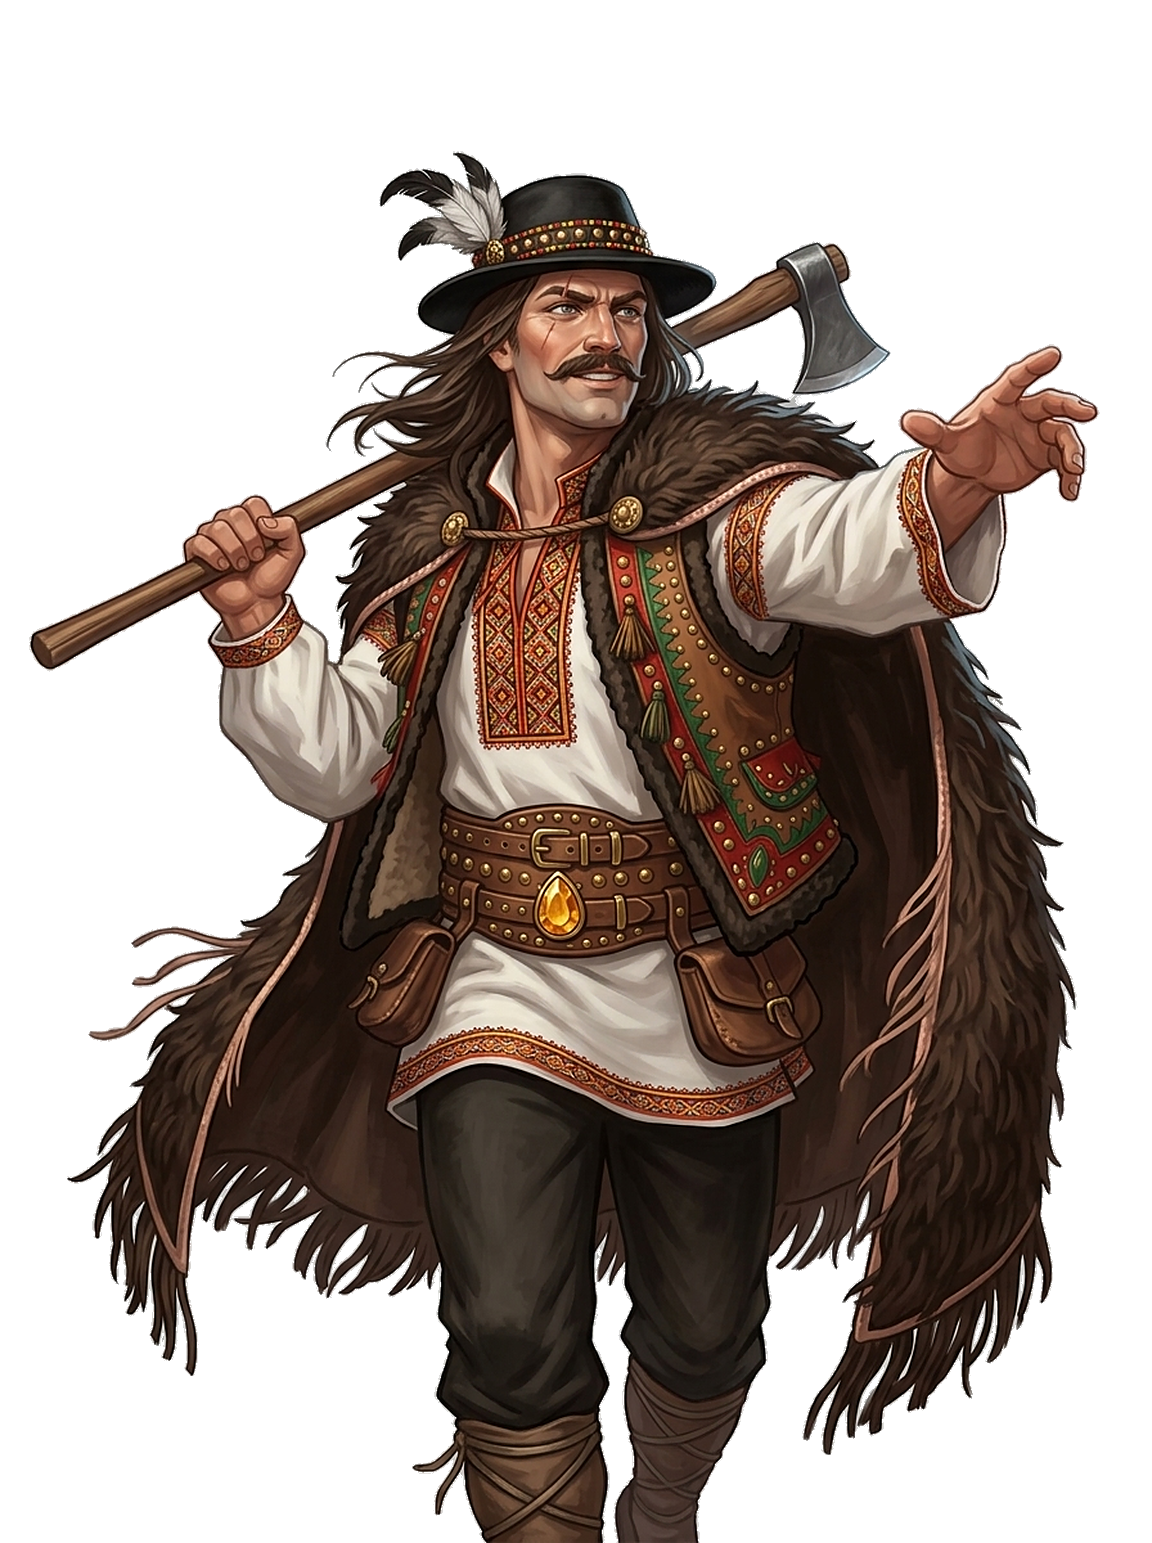
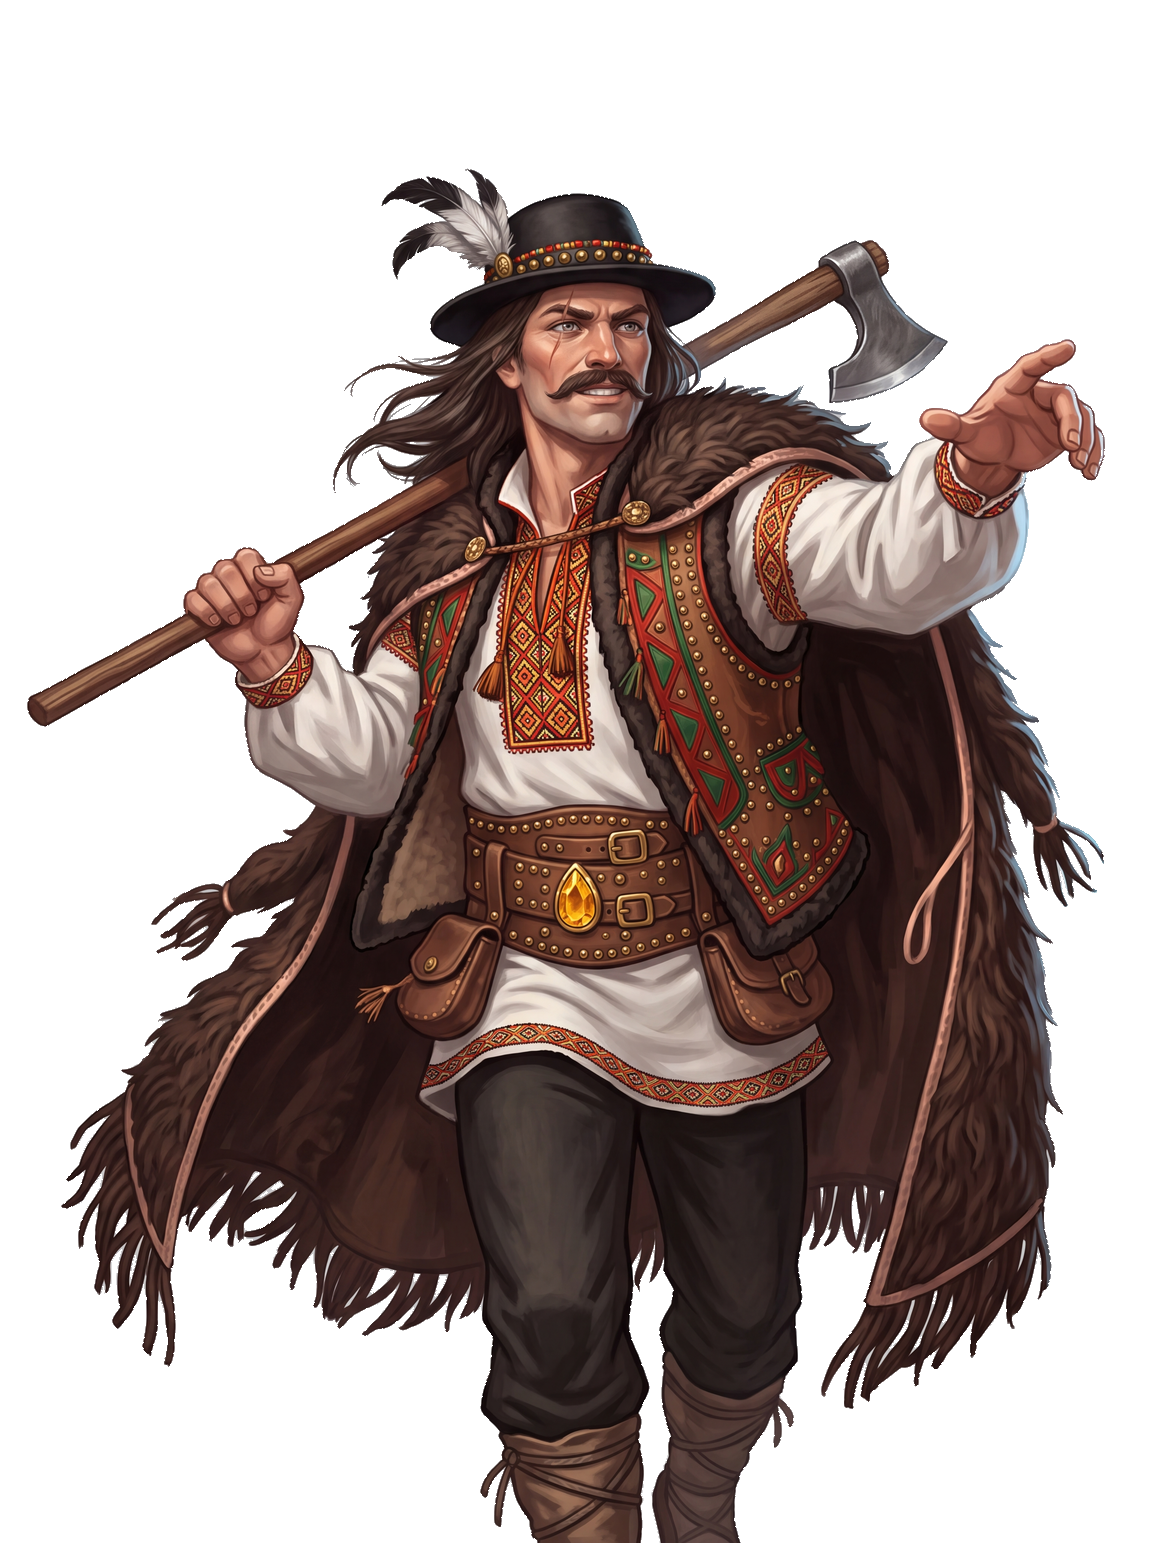
Crystal Rush Heroes: Dovbush's card replaced with the owner's 4K version (re-cut, framing updated)
Claude-Session: https://claude.ai/code/session_01AzKNZocK1gfYo5b1Lpd2DR

diff --git a/crystal-rush/assets/heroes/dovbush/README.md b/crystal-rush/assets/heroes/dovbush/README.md
@@ -1,7 +1,7 @@
 # dovbush art (assets/heroes/dovbush) — champion «Довбуш — Опришок»
 
-- `card.png` — the owner's 3:4 card (2026-10-09, 896x1200 source in `art_src/heroes/dovbush/`; a 4K export can replace it),
-  upscaled to 1152x1543 (Lanczos + light unsharp), cut out; grey slivers between hair and cloak-fringe strands removed, the axe
-  head kept from the first pass. An original face (not modelled on any actor): Hutsul kresania hat with feathers, embroidered
-  shirt, keptar, wide studded cheres belt with a pear-cut topaz, a shaggy hunia cloak, the bartka on his shoulder.
+- `card.png` — the owner's 3:4 card (Gemini 4K, 2026-10-09, 3584x4800; source in `art_src/heroes/dovbush/`; replaces the first
+  896x1200 version), scaled to 1152x1543, cut out; grey slivers between hair and cloak-fringe strands removed (the axe head protected).
+  An original face (not modelled on any actor): Hutsul kresania hat with feathers, embroidered shirt, keptar, wide studded cheres belt
+  with a pear-cut topaz, a shaggy hunia cloak, the bartka on his shoulder.
 - `splash.png` — the same art (cameos and walkouts use the splash slot).
